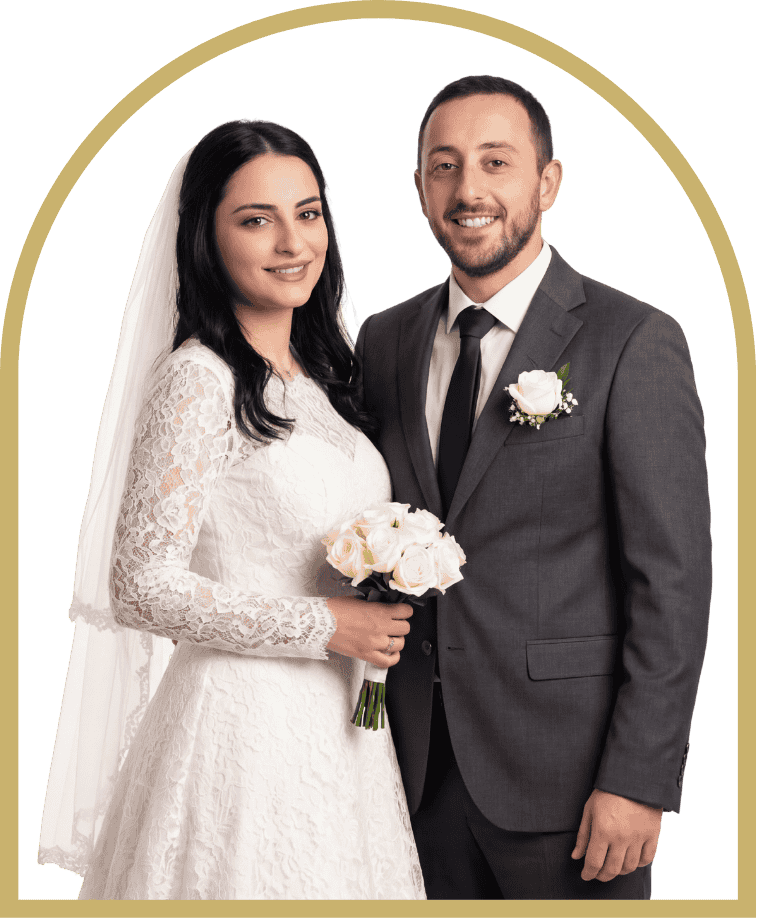
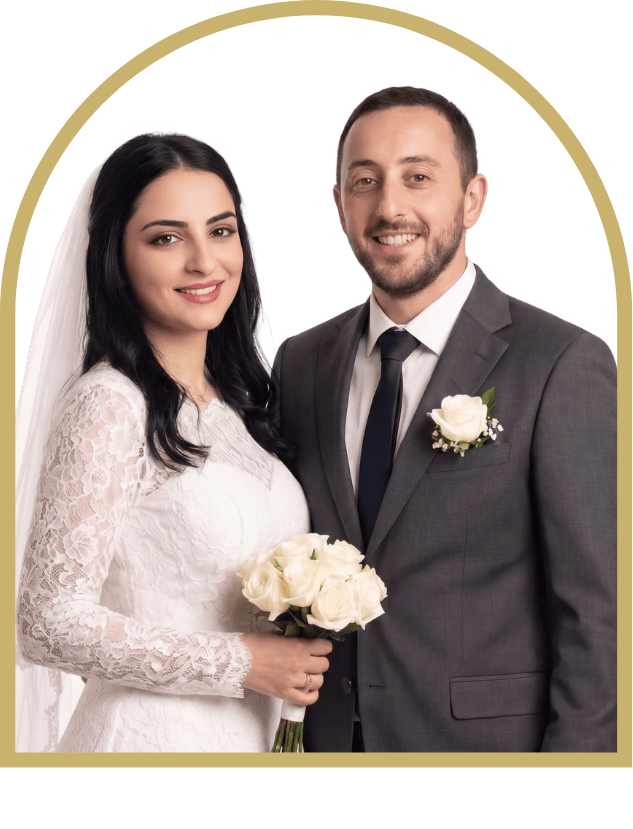
last

diff --git a/style.css b/style.css
@@ -188,7 +188,7 @@
 		.hero-photo {
 			width: 24rem;
 
-			margin-bottom: 2.5rem;
+			margin-bottom: 1.8rem;
 
 		}
 
